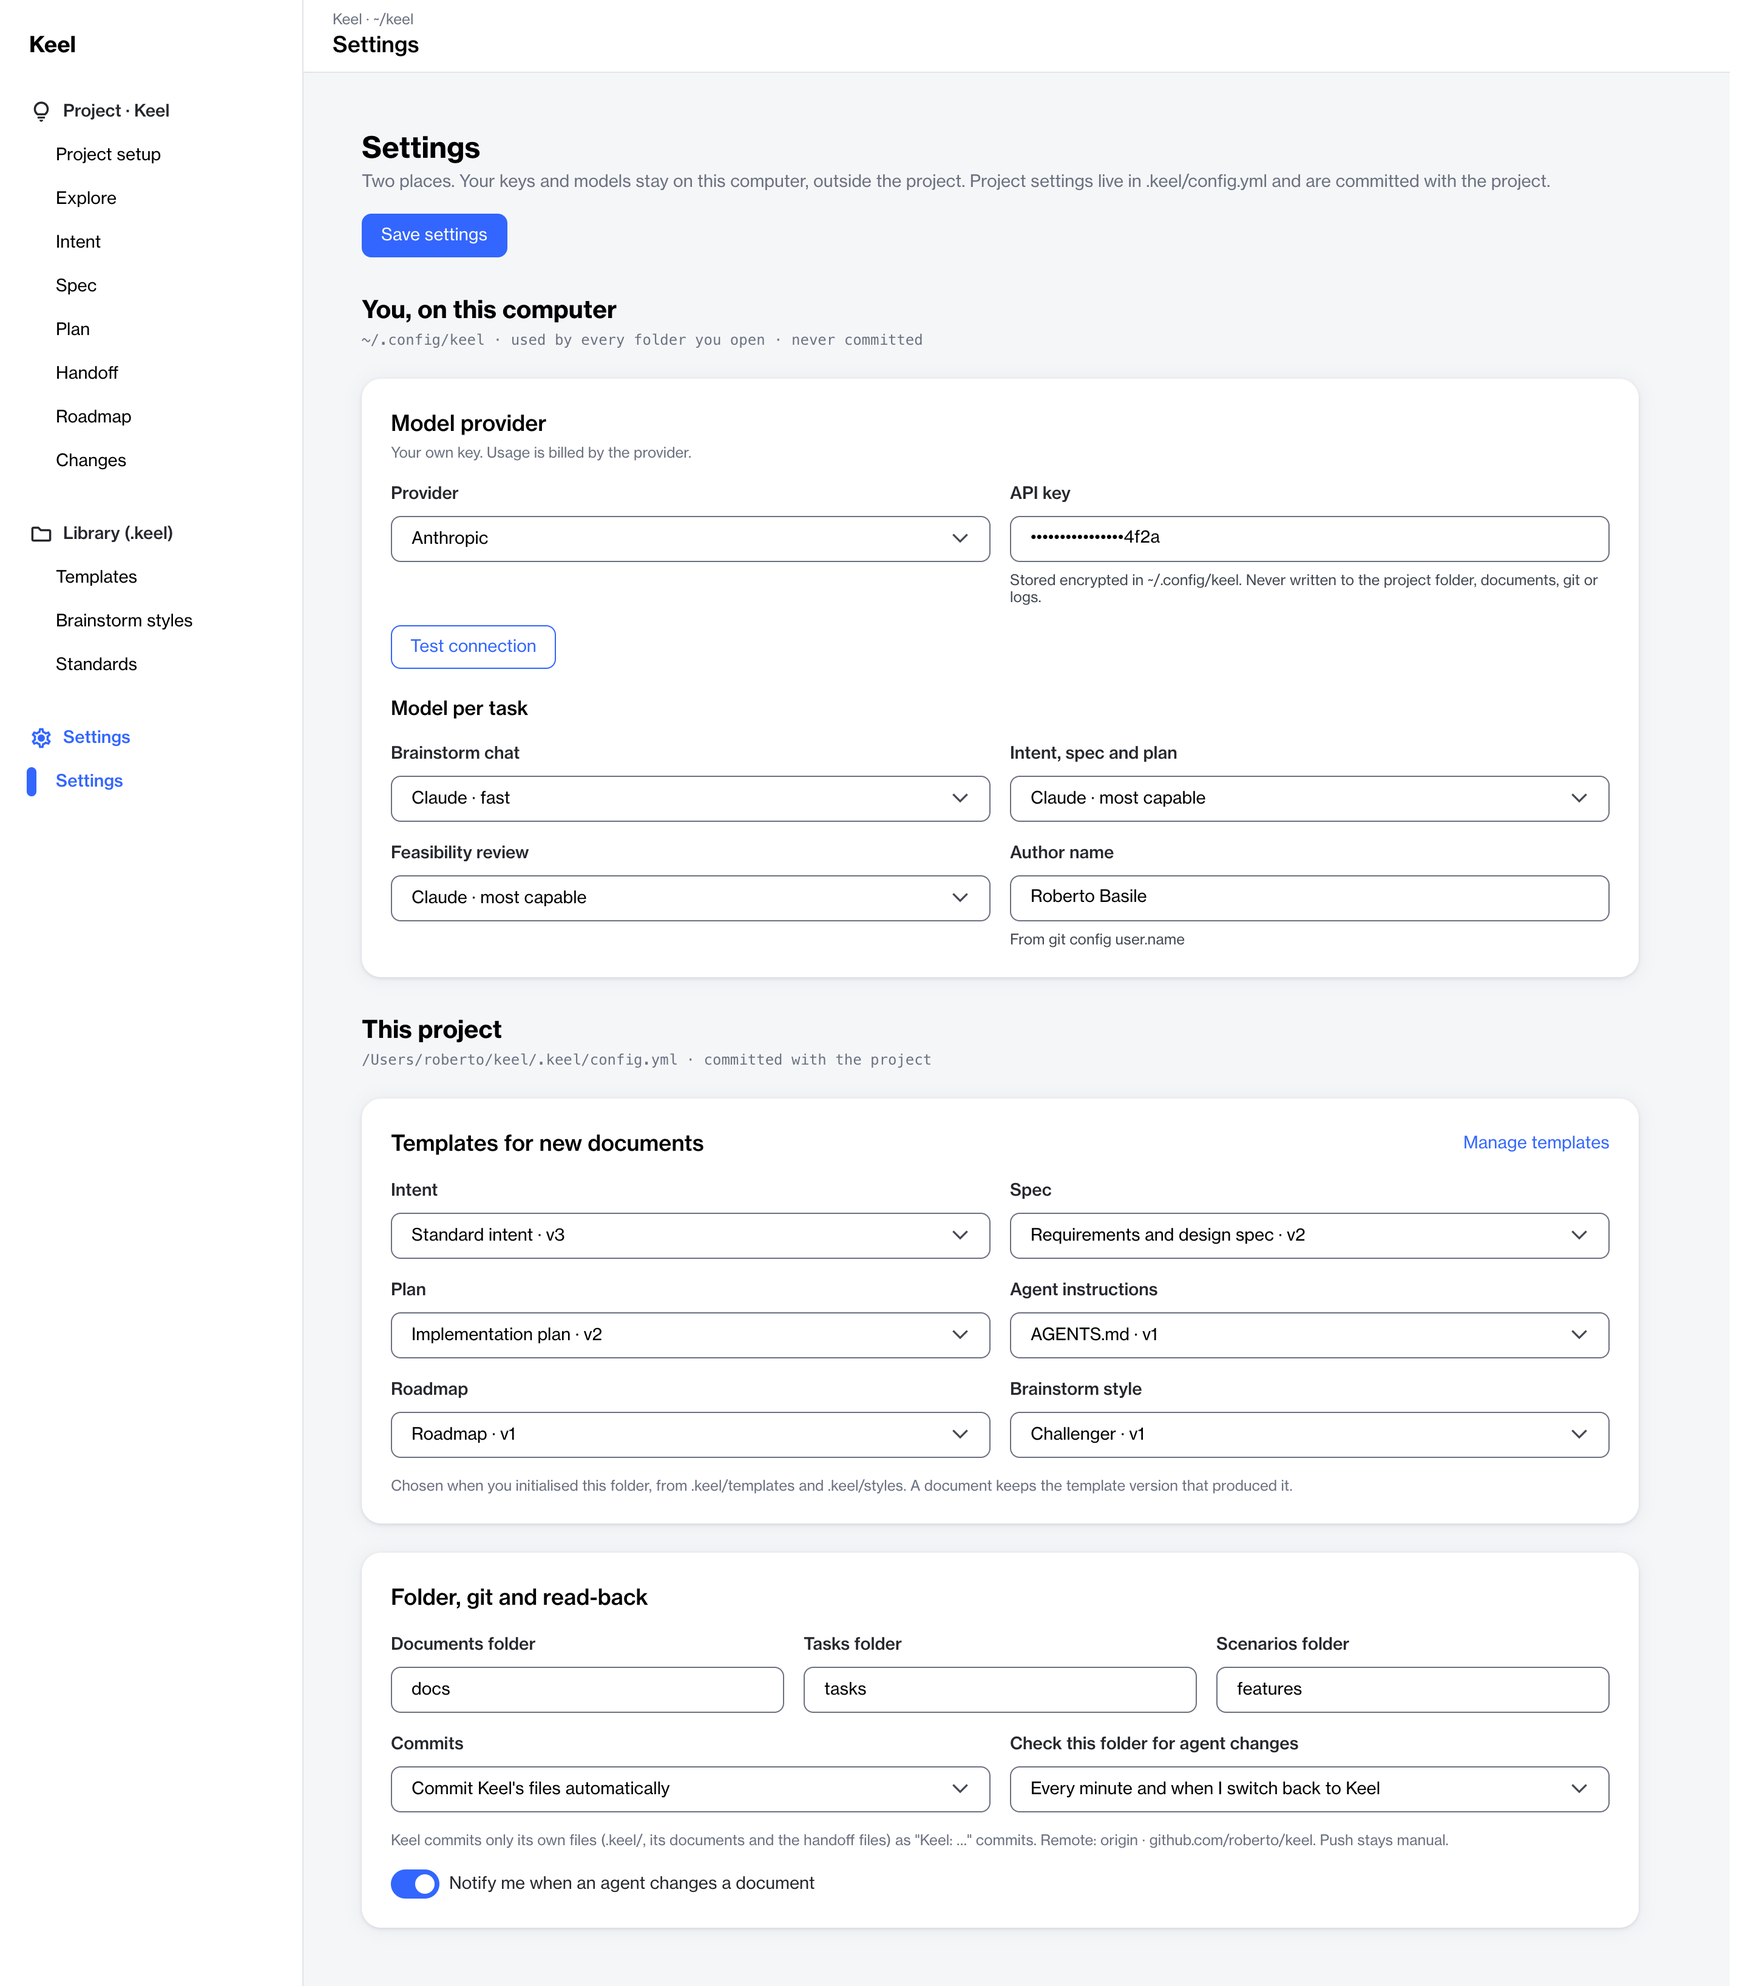
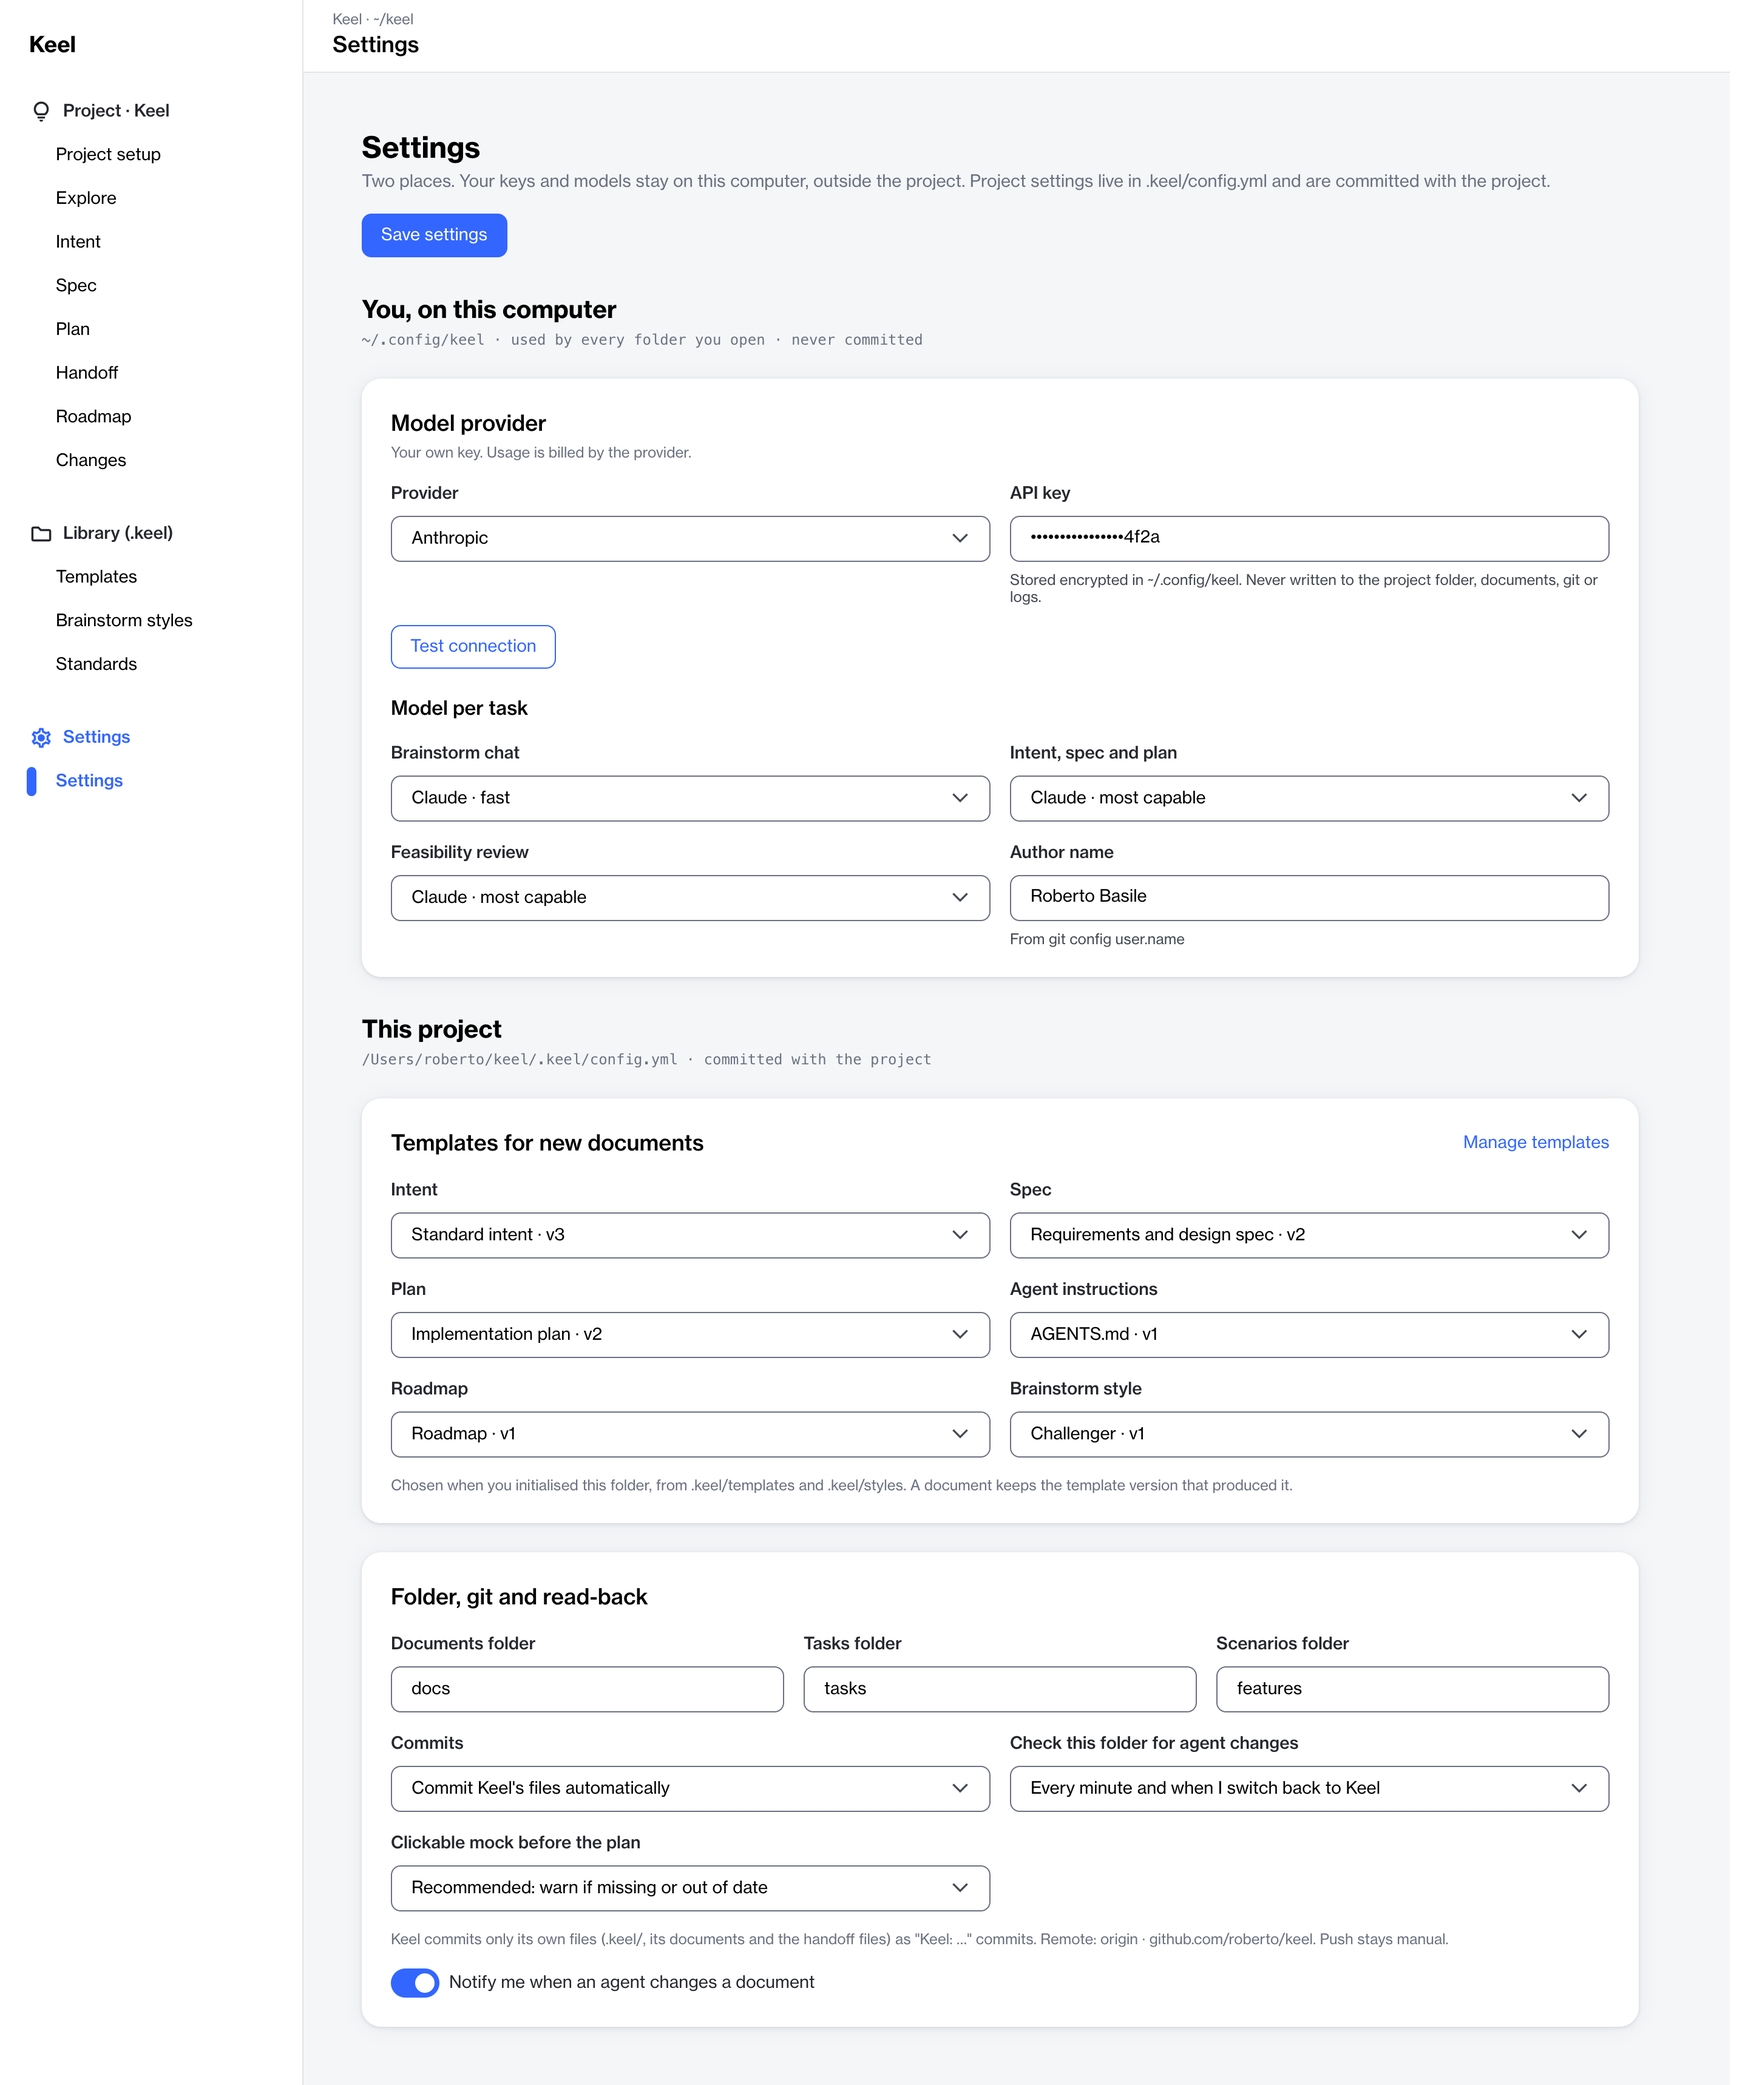
Add change requests CR-0004 to CR-0010 and current mock exports

diff --git a/changes/CR-0008/CR-0008.md b/changes/CR-0008/CR-0008.md
@@ -19,7 +19,7 @@ The v6 UI pass followed the mockup on some screens only. Pages use different spa
 ## What changes
 
 1. **One UI guide.** `docs/ui-guide.md` defines the tokens (colour, type, spacing, radius, shadow), the shell, the page patterns, the shared components and a screen checklist. It replaces the "neutral design" note in `docs/mocks/README.md`: same layout, sizes and colours as the mockup, with the system font and no company branding.
-2. **Mock sources in the repository.** The mockup's screen files go to `docs/mocks/source/`, so the agent can read exact structure, sizes and copy. The PNGs in `docs/mocks/` are kept; the owner re-exports them from the mockup when convenient.
+2. **Mock sources in the repository.** The mockup's screen files go to `docs/mocks/source/`, so the agent can read exact structure, sizes and copy. The PNGs in `docs/mocks/` (exported 2026-11-22) show how the design-system parts look; use both.
 3. **Shared components.** Every element in the guide's component table exists once in `src/components/ui/` and every page uses them. No page styles its own buttons, cards or tags.
 4. **A UI gallery page** at `/dev/ui` (only in development) shows every component in every state, to check them side by side with the mockup.
 5. **Screens rebuilt to the checklist.** Each screen in the guide's checklist matches its mock source.
@@ -36,7 +36,7 @@ No requirement changes: this is a look-and-feel change. Behaviour stays as speci
 - **docs/mocks/source/:** copy `mock-source/*` from this folder.
 - **docs/mocks/README.md:**
   - Replace the last paragraph with: "Keel uses the mockup's layout, sizes and colours with the system font and no company branding. `docs/ui-guide.md` has the tokens, components and a checklist per screen. The screen sources are in `docs/mocks/source/`."
-  - Mark the PNGs of screens changed since 2026-11-20 as out of date: projects.png (removed, see Initialise), start.png, explore.png, explore-early.png, spec.png, handoff.png. The sources are current.
+  - The PNGs exported on 2026-11-22 are current, except `1b · Initialise this folder (.keel).png`, which predates the four opening cases of CR-0010; the source `Start.dc.html` is current.
 - **AGENTS.md:** under the rules, add "UI work follows `docs/ui-guide.md` and the screen sources in `docs/mocks/source/`. Use the components in `src/components/ui/`; add a component there before using a new pattern."
 - **docs/plan.md (v11):** add task R13 after R12. Version history: "v11: task R13, UI consistency (CR-0008)."
 
